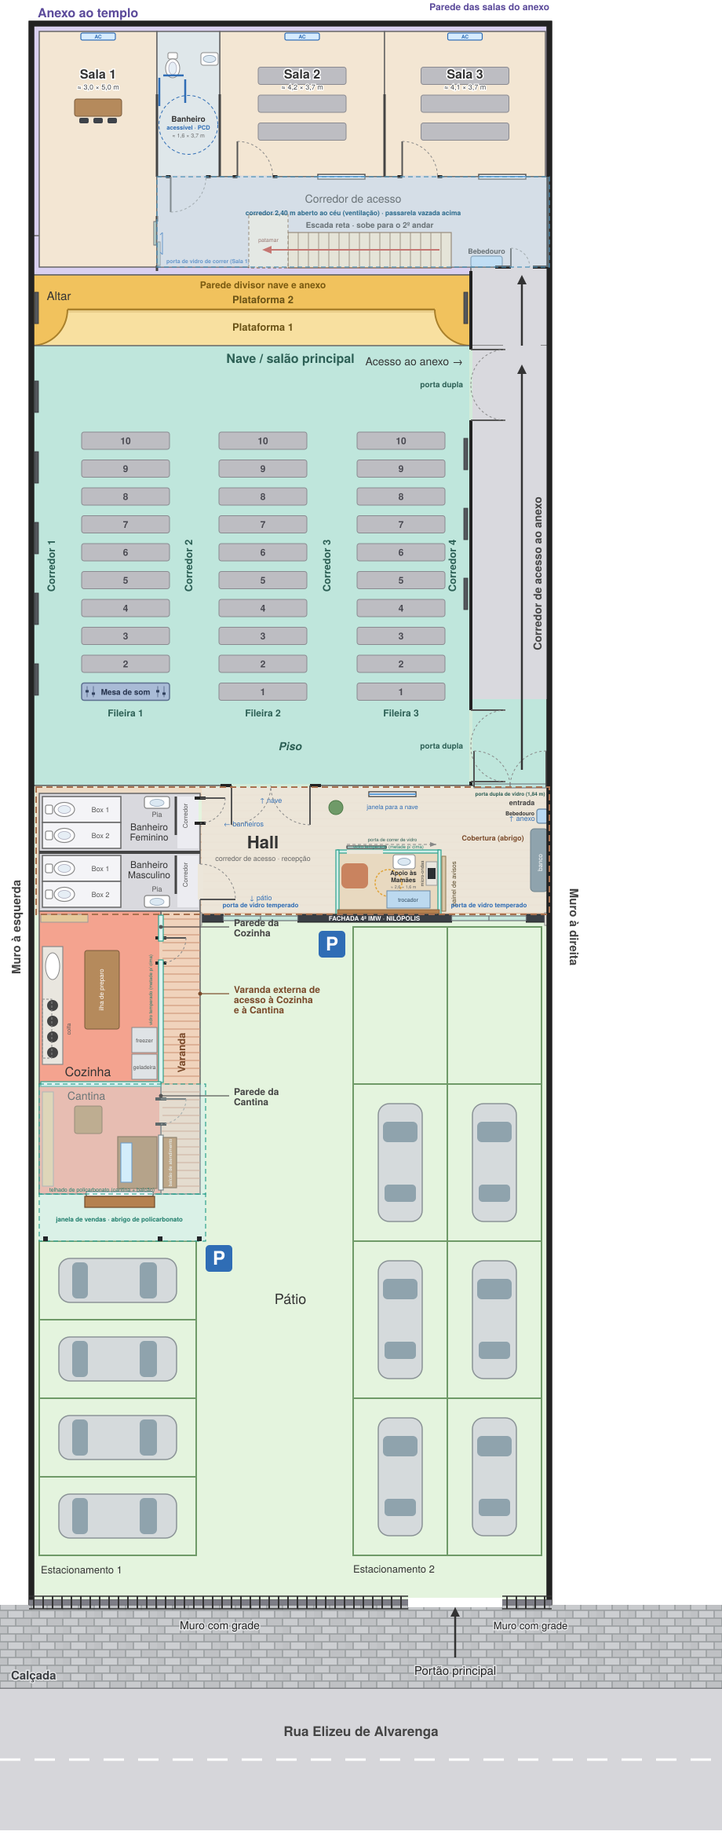
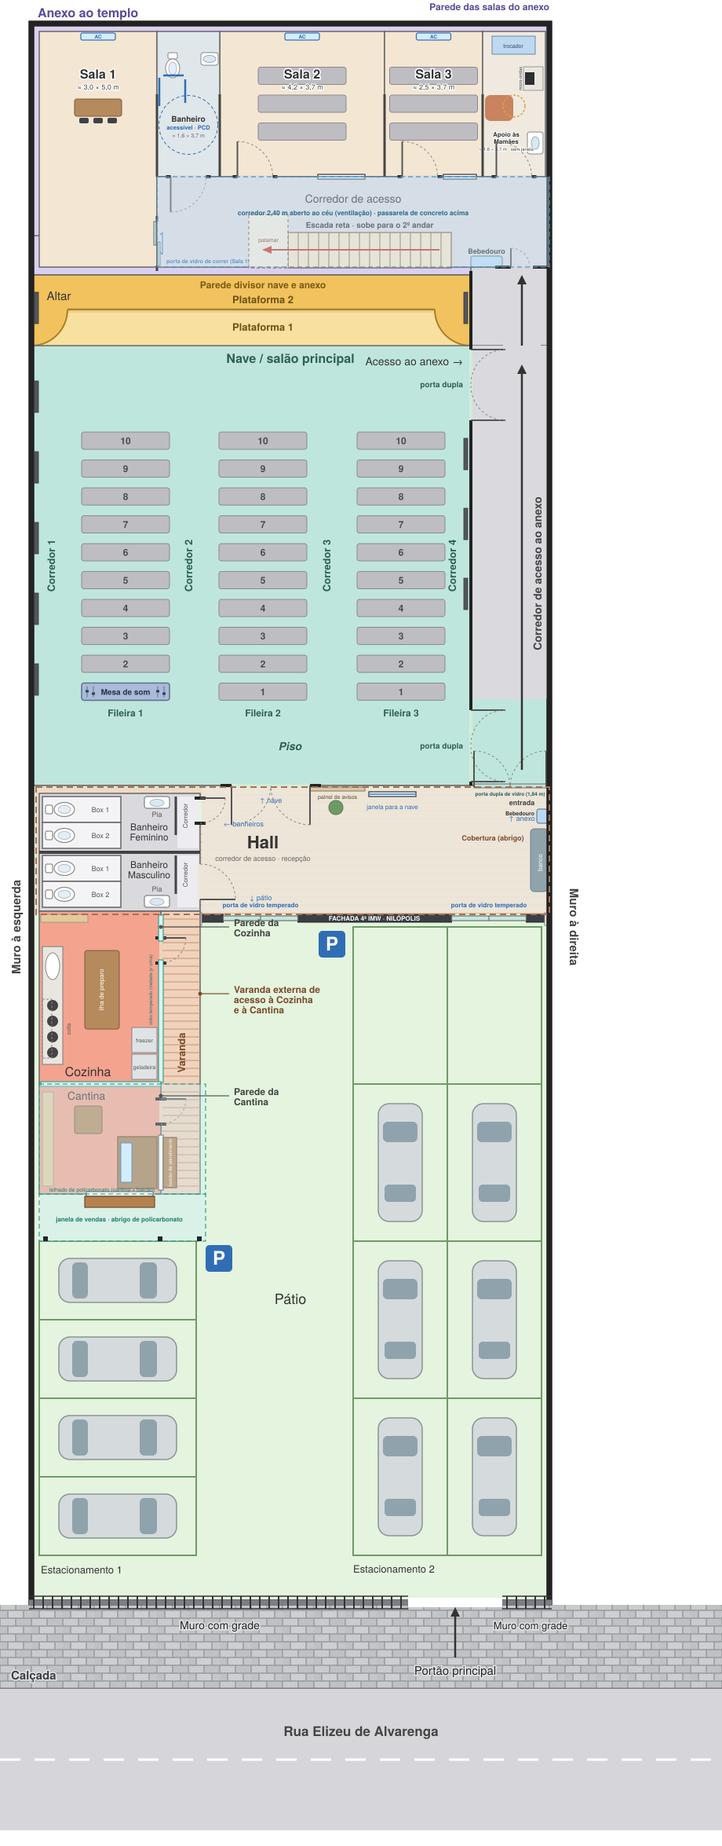
Etapa 101: Sala de Apoio às Mamães no anexo (Sala 3 dividida); Hall livre
Claude-Session: https://claude.ai/code/session_015gh4tS64wXyJ2ghbw66cFX

Changed region(s): [[0.5174, 0.0, 0.7609, 0.1243], [0.4565, 0.4349, 0.6391, 0.497], [0.4565, 0.4038, 0.487, 0.4349]]

diff --git a/projeto3/maquete.html b/projeto3/maquete.html
@@ -107,7 +107,7 @@
     <input id="search" type="search" placeholder="🔍 Buscar (ex.: cantina, escada, nave)" autocomplete="off">
     <div id="tabs"></div>
     <div id="menuPanel"></div>
-    <details class="about"><summary>Sobre o projeto</summary><ul><li>Térreo: nave, hall, banheiros, Sala de Apoio às Mamães, cozinha e cantina (atende pela varanda e pelo estacionamento) e o anexo com salas e escada reta.</li><li>2º andar: Sala Multiuso, WC, Biblioteca e Sala de Reuniões com Copa, com passarela sobre o corredor aberto.</li><li>Pátio com dois estacionamentos e fachada com portas de vidro temperado.</li></ul></details>
+    <details class="about"><summary>Sobre o projeto</summary><ul><li>Térreo: nave, hall, banheiros, cozinha e cantina (atende pela varanda e pelo estacionamento) e o anexo com salas, Sala de Apoio às Mamães e escada reta.</li><li>2º andar: Sala Multiuso, WC, Biblioteca e Sala de Reuniões com Copa, com passarela sobre o corredor aberto.</li><li>Pátio com dois estacionamentos e fachada com portas de vidro temperado.</li></ul></details>
     <div class="credit">A Maquete 3 é a mais aceita pela Junta Diaconal<br>Criação e elaboração: Alexandre Prado</div>
   </aside>
   <div class="bar" id="views"></div>
@@ -315,13 +315,14 @@
     seg3(horiz, fixed, c, w + 0.1, 0.06, th, 0x5b3d25, h + 0.04);
     [-1, 1].forEach(function(o){ seg3(horiz, fixed, c, 0.06, h + 0.02, th, 0x5b3d25, h / 2 + 0.01, o * (w / 2 + 0.03)); });
   }
-  function winFrame(horiz, fixed, c){
+  function winFrame(horiz, fixed, c, w){
+    w = w || 1.2;
     var y0 = 1.1, y1 = 2.3, yc = (y0 + y1) / 2;
-    seg3(horiz, fixed, c, 1.2, 0.05, 0.2, C.white, y0 + 0.025);
-    seg3(horiz, fixed, c, 1.2, 0.05, 0.2, C.white, y1 - 0.025);
-    [-0.575, 0.575].forEach(function(o){ seg3(horiz, fixed, c, 0.05, 1.2, 0.2, C.white, yc, o); });
+    seg3(horiz, fixed, c, w, 0.05, 0.2, C.white, y0 + 0.025);
+    seg3(horiz, fixed, c, w, 0.05, 0.2, C.white, y1 - 0.025);
+    [-1, 1].forEach(function(q){ seg3(horiz, fixed, c, 0.05, 1.2, 0.2, C.white, yc, q * (w / 2 - 0.025)); });
     seg3(horiz, fixed, c, 0.04, 1.2, 0.1, C.white, yc);
-    seg3(horiz, fixed, c, 1.3, 0.04, 0.3, C.white, y0 - 0.02);
+    seg3(horiz, fixed, c, w + 0.1, 0.04, 0.3, C.white, y0 - 0.02);
   }
   // MAQUETE 3: janela de vidro temperado 1,20 x 1,20 m (peitoril 1,10 m): vidro translúcido, perfil fino de alumínio, montante central (folhas de correr), trinco e peitoril
   var tempWinMat = new THREE.MeshStandardMaterial({ color: 0xb4dccf, transparent: true, opacity: 0.32, roughness: 0.05, metalness: 0.2, side: THREE.DoubleSide });
@@ -391,7 +392,8 @@
     rect(40, 720, 700, 1760, 0, 0.05, 0, { cast: false, material: new THREE.MeshStandardMaterial({ map: tx, roughness: 0.9 }) });   // pátio
   })();
   rect(40, 40, 700, 230, 0, 0.06, C.anexo, { cast: false });                 // bloco do anexo
-  [[50,200],[280,490],[490,695]].forEach(function(r){ rect(r[0], 50, r[1], 155, 0.06, 0.04, 0, { cast: false, material: anxWood((r[1] - r[0]) * S, 105 * S) }); });   // Etapa 87: piso de tábuas de madeira clara   // Etapa 70: Sala 4 eliminada; Salas 2 e 3 ocupam x280..695
+  [[50,200],[280,490],[490,615]].forEach(function(r){ rect(r[0], 50, r[1], 155, 0.06, 0.04, 0, { cast: false, material: anxWood((r[1] - r[0]) * S, 105 * S) }); });
+  rect(615, 50, 695, 155, 0.06, 0.04, 0, { cast: false, material: anxTile(80 * S, 105 * S, [226, 222, 214], '#b9b4aa', 0.3) });   // Etapa 101: piso de cerâmica clara da Sala de Apoio às Mamães   // Etapa 87: piso de tábuas de madeira clara   // Etapa 70: Sala 4 eliminada; Salas 2 e 3 ocupam x280..695
   rect(200, 50, 280, 155, 0.06, 0.04, 0, { cast: false, material: anxTile(80 * S, 105 * S, [214, 224, 229], '#a3aeb4', 0.3) });            // PROJETO 2: banheiro do anexo (entre Sala 1 e Sala 2)   // PROJETO 2: 3 salas
   rect(200, 155, 700, 220, 0.06, 0.04, 0, { cast: false, material: anxTile(500 * S, 65 * S, [206, 206, 210], '#9a9aa0', 0.3) });             // corredor do anexo (MAQUETE 3: começa em x200)
   rect(50, 155, 200, 220, 0.06, 0.04, 0, { cast: false, material: anxWood(150 * S, 65 * S) });          // MAQUETE 3: Sala 1 esticada até a parede divisória nave x anexo
@@ -645,14 +647,14 @@
 
   // ---------- Anexo (paredes das salas com altura padrão de 3 m) ----------
   // PROJETO 2: anexo reorganizado (3 salas + banheiro acessível + Sala de Apoio) com corredor y155..220 e bebedouro
-  [200, 280, 490].forEach(function(px){ vwall(px, 50, 155, BH); });   // Etapa 70: sem as paredes x430 e x580 (Sala 4 eliminada)
+  [200, 280, 490, 615].forEach(function(px){ vwall(px, 50, 155, BH); });   // Etapa 101: parede x615 divide a Sala 3 (x490..615) da Sala de Apoio (x615..695)   // Etapa 70: sem as paredes x430 e x580 (Sala 4 eliminada)
   vwall(695, 50, 155, BH);
-  hwall(155, 200, 695, BH, [door(240), door(325), win(435), door(535), win(640)]);   // MAQUETE 3: a Sala 1 não tem mais parede/porta/janela para o corredor (foi esticada até y220)
+  hwall(155, 200, 695, BH, [door(240), door(325), win(435), door(535), { a: 565, b: 607, sill: 1.1, lh: 2.3 }, door(655)]);   // MAQUETE 3: a Sala 1 não tem mais parede/porta/janela para o corredor (foi esticada até y220)
   vwall(200, 155, 225, BH, [{ a: 162, b: 218, lh: 2.1 }]);               // MAQUETE 3: nova parede leste da Sala 1 (voltada para o corredor de acesso), com vão da porta de vidro de correr
   doorLeaf(true, 225, 665, 0.86, 2.08, 0.2);                                // porta de madeira de acesso ao anexo
-  [325, 535].forEach(function(c){ doorLeaf(true, 155, c); });   // Etapa 70: portas das Salas 2 e 3
+  [325, 535, 655].forEach(function(c){ doorLeaf(true, 155, c); });   // Etapa 101: 655 = porta da Sala de Apoio   // Etapa 70: portas das Salas 2 e 3
   doorLeaf(true, 155, 240, 0.9, 2.08, 0.16);                              // porta do banheiro do anexo      // portas de madeira: Salas 1-3 e Sala de Apoio
-  [435, 640].forEach(function(c){ winFrame(true, 155, c); });           // janelas das 3 salas
+  winFrame(true, 155, 435); winFrame(true, 155, 586, 0.84);   // Etapa 101: Sala 3 com janela de 0,84 m (a Sala de Apoio não tem janela)           // janelas das 3 salas
   // MAQUETE 3 (Etapa 56): porta de vidro temperado DE CORRER (2 folhas de 0,60 m, uma fixa e uma móvel, trilho superior e inferior, puxador) da Sala 1 voltada para o corredor de acesso
   (function(){
     var temp = new THREE.MeshStandardMaterial({ color: 0xb4dccf, transparent: true, opacity: 0.32, roughness: 0.05, metalness: 0.2, side: THREE.DoubleSide });
@@ -808,11 +810,11 @@
     cam(X(700) - 0.11, 2.6, Z(780), -1, 0.15); cam(X(255) + 0.1, 2.6, Z(770), 1, 0.15);
     // anexo: corredor (parede divisória com a nave) e salas
     cam(X(285), 2.6, Z(225) - 0.09, 0.5, -1); cam(X(560), 2.6, Z(225) - 0.09, -0.5, -1);
-    cam(X(125), 2.55, Z(40) + 0.12, 0, 1); cam(X(592), 2.55, Z(40) + 0.12, 0, 1);
+    cam(X(125), 2.55, Z(40) + 0.12, 0, 1); cam(X(552.5), 2.55, Z(40) + 0.12, 0, 1);
   })();
   (function(){
     function acBox(x, y, z){ box(0.95, 0.28, 0.2, 0xf4f4f2, x, y, z); box(0.8, 0.025, 0.02, 0x9aa0a6, x, y - 0.09, z + 0.105, null, { cast: false }); }
-    [125, 385, 592].forEach(function(cx){
+    [125, 385, 552.5].forEach(function(cx){
       acBox(X(cx), 2.45, Z(40) + 0.11 + 0.1);                                                   // split na parede do fundo
       box(1.5, 0.85, 0.04, 0x16191c, X(cx), 1.5, Z(40) + 0.11 + 0.02);                          // tela
       if (cx !== 125) return;                                                                      // Etapa 80: Salas 2 e 3 sem mesa e sem cadeiras (os 3 bancos são a medida da sala)
@@ -1127,51 +1129,16 @@
       box(0.05, 0.42, 1.6, 0, X(698), 0.78, bz, null, { material: wm });                                // encosto
       [-0.72, 0.72].forEach(function(q){ box(0.04, 0.43, 0.04, 0x2a2d31, bx - 0.19, 0.215, bz + q, null, { material: mt }); box(0.04, 0.43, 0.04, 0x2a2d31, bx + 0.19, 0.215, bz + q, null, { material: mt }); box(0.04, 0.36, 0.04, 0x2a2d31, X(698), 0.6, bz + q, null, { material: mt }); });
     })();
-    // painel de avisos: agora na face externa (leste) da Sala de Apoio do Hall
-    (function(){ var px = X(560) + 0.09, pz = Z(844); box(0.04, 1.0, 1.4, 0xd9c7a8, px, 1.5, pz); box(0.05, 0.05, 1.48, 0x7a5a3a, px, 2.02, pz); box(0.05, 0.05, 1.48, 0x7a5a3a, px, 0.98, pz);
-      [[-0.5, 1.7, 0xf4f1e8], [-0.15, 1.58, 0xf2d56b], [0.2, 1.72, 0xbfd8ea], [0.5, 1.55, 0xf2b6a8], [-0.4, 1.35, 0xf4f1e8], [0.05, 1.3, 0xc7e3c0], [0.45, 1.28, 0xf4f1e8]].forEach(function(q){ box(0.02, 0.22, 0.17, q[2], px + 0.03, q[1] - 0.05, pz + q[0], null, { cast: false }); }); })();   // Etapa 85: avisos presos no painel
+    // painel de avisos: Etapa 101 — na parede da nave, lado do Hall (a sala de apoio saiu do Hall)
+    (function(){ var px = X(430), pz = Z(720) + 0.14; box(1.4, 1.0, 0.04, 0xd9c7a8, px, 1.5, pz); box(1.48, 0.05, 0.05, 0x7a5a3a, px, 2.02, pz); box(1.48, 0.05, 0.05, 0x7a5a3a, px, 0.98, pz);
+      [[-0.5, 1.7, 0xf4f1e8], [-0.15, 1.58, 0xf2d56b], [0.2, 1.72, 0xbfd8ea], [0.5, 1.55, 0xf2b6a8], [-0.4, 1.35, 0xf4f1e8], [0.05, 1.3, 0xc7e3c0], [0.45, 1.28, 0xf4f1e8]].forEach(function(q){ box(0.17, 0.22, 0.02, q[2], px + q[0], q[1] - 0.05, pz + 0.03, null, { cast: false }); }); })();   // Etapa 85: avisos presos no painel
     var pot = new THREE.Mesh(new THREE.CylinderGeometry(0.2, 0.15, 0.4, 18), mat(0xdcd8cf, { roughness: 0.6 })); pot.position.set(X(428), 0.2, Z(748)); root.add(pot);
     var pl = new THREE.Mesh(new THREE.SphereGeometry(0.34, 16, 12), mat(0x5d8f56, { roughness: 0.9 })); pl.position.set(X(428), 0.75, Z(748)); root.add(pl);
     [[0.2, 0.9, 0.1], [-0.18, 0.95, -0.05], [0.0, 1.1, 0.0], [-0.1, 0.8, 0.2], [0.12, 0.8, -0.18]].forEach(function(q){ var lf = new THREE.Mesh(new THREE.SphereGeometry(0.2, 8, 6), mat(0x4f8a49, { roughness: 0.9 })); lf.position.set(X(428) + q[0], q[1], Z(748) + q[2]); root.add(lf); });   // Etapa 85: folhagem mais cheia
     var rg = new THREE.Mesh(new THREE.CylinderGeometry(0.9, 0.9, 0.02, 40), mat(0xcfc3ae, { roughness: 1 })); rg.position.set(X(335), 0.12, Z(810)); root.add(rg);
   })();
 
-  // ---- MAQUETE 3: Sala de Apoio às Mamães no Hall, em horizontal (x430..560, y804..884 ≈ 2,6 × 1,6 m): poltrona, trocador, pia e micro-ondas ----
-  (function(){
-    rect(430, 804, 560, 884, 0.1, 0.02, 0xcfcac2, { cast: false });   // piso de microcimento claro
-    // paredes: azulejo até a metade (1,5 m) e vidro temperado da metade para cima, com perfis pretos (norte, oeste e leste; a sul é a fachada)
-    hwall(804, 430, 560, BH, [door(465)], 'GLASSUP');
-    vwall(430, 804, 884, BH, [], 'GLASSUP');
-    vwall(560, 804, 884, BH, [], 'GLASSUP');
-    // porta de correr de vidro temperado (folha de 1,0 m com perfis pretos, trilho superior e puxador), do lado do Hall; corre para o leste sobre a parede de vidro
-    (function(){
-      var cz = Z(804) - 0.13, cx = X(465), lw = 1.0, met = 0x1f2226, tx0 = X(450), tx1 = X(556);
-      box(lw, 2.06, 0.012, 0, cx, 1.06, cz, null, { material: tempWinMat, cast: false });
-      box(lw + 0.04, 0.06, 0.05, met, cx, 0.05, cz); box(lw + 0.04, 0.06, 0.05, met, cx, 2.09, cz);
-      [-1, 1].forEach(function(q){ box(0.04, 2.1, 0.05, met, cx + q * (lw / 2 + 0.01), 1.07, cz); });
-      box(0.025, 0.9, 0.05, 0xc9ced3, cx + 0.38, 1.05, cz - 0.04);                                  // puxador vertical
-      box(tx1 - tx0, 0.07, 0.07, met, (tx0 + tx1) / 2, 2.2, cz, null, { cast: false });              // trilho superior
-      box(tx1 - tx0, 0.015, 0.04, 0x6b7075, (tx0 + tx1) / 2, 0.01, cz, null, { cast: false });        // guia no piso
-      box(0.3, 0.05, 0.05, met, cx, 2.17, cz, null, { cast: false });                                 // roldana
-    })();
-    // design: faixa de vidro jateado (privacidade na altura dos olhos, 1,55–2,05 m) nas 3 paredes de vidro
-    var fr = new THREE.MeshStandardMaterial({ color: 0xffffff, transparent: true, opacity: 0.62, roughness: 0.9 });
-    gbox(true, 804, (488 + 560) / 2, (560 - 488) * S, 0.5, 0.036, 1.8, 0, fr);
-    gbox(false, 430, 844, 80 * S, 0.5, 0.036, 1.8, 0, fr);
-    gbox(false, 560, 844, 80 * S, 0.5, 0.036, 1.8, 0, fr);
-    // design: ripado de madeira na parede da fachada (atrás do trocador) e pendente circular de LED
-    for (var rk = 0; rk < 26; rk++) box(0.05, 1.75, 0.04, 0xb5814f, X(433) + rk * 0.098 + 0.05, 1.83, Z(884) - 0.07, null, { cast: false });
-    box(2.55, 0.05, 0.05, 0x23262a, X(495), 0.93, Z(884) - 0.07, null, { cast: false }); box(2.55, 0.05, 0.05, 0x23262a, X(495), 2.72, Z(884) - 0.07, null, { cast: false });
-    var ring = new THREE.Mesh(new THREE.TorusGeometry(0.34, 0.022, 10, 40), new THREE.MeshStandardMaterial({ color: 0xfff1c9, emissive: 0xffe2a8, emissiveIntensity: 0.9 })); ring.rotation.x = Math.PI / 2; ring.position.set(X(495), 2.5, Z(844)); root.add(ring);
-    [0, 2.1, 4.2].forEach(function(a){ box(0.01, 0.5, 0.01, 0x23262a, X(495) + 0.34 * Math.cos(a), 2.75, Z(844) + 0.34 * Math.sin(a), null, { cast: false }); });
-    box(0.7, 0.45, 0.65, 0xc9835f, X(450) + 0.1, 0.3, Z(835)); box(0.14, 0.55, 0.65, 0xc9835f, X(450) - 0.22, 0.6, Z(835)); box(0.12, 0.18, 0.65, 0xb06f4e, X(450) + 0.45, 0.5, Z(835));   // poltrona de amamentação (terracota)
-    [[0.35, 0.28], [0.35, -0.28], [-0.15, 0.28], [-0.15, -0.28]].forEach(function(q){ box(0.03, 0.08, 0.03, 0x23262a, X(450) + q[0] - 0.05, 0.04, Z(835) + q[1]); });   // pés pretos
-    box(1.1, 0.9, 0.45, 0xf4f2ec, X(520), 0.45, Z(884) - 0.13 - 0.25); box(1.1, 0.06, 0.45, 0xbcd9ef, X(520), 0.93, Z(884) - 0.13 - 0.25); box(1.12, 0.04, 0.47, 0xb5814f, X(520), 0.89, Z(884) - 0.13 - 0.25);   // trocador (parede sul) com friso de madeira
-    box(0.56, 0.85, 0.36, 0xf4f2ec, X(515), 0.425, Z(804) + 0.11 + 0.2); var ps3 = new THREE.Mesh(new THREE.CylinderGeometry(0.15, 0.11, 0.06, 18), mat(0xffffff, { roughness: 0.25 })); ps3.position.set(X(515), 0.88, Z(804) + 0.11 + 0.2); root.add(ps3); box(0.03, 0.22, 0.03, 0x15171a, X(515), 1.02, Z(804) + 0.11 + 0.06); box(0.03, 0.03, 0.12, 0x15171a, X(515), 1.12, Z(804) + 0.11 + 0.1);   // pia com torneira preta
-    var mx = X(560) - 0.11 - 0.25;
-    box(0.5, 0.9, 0.6, 0xe9e6df, mx, 0.45, Z(832)); box(0.52, 0.04, 0.62, 0xb9bcbe, mx, 0.92, Z(832));          // balcão
-    box(0.36, 0.26, 0.45, 0x2b2e32, mx, 1.07, Z(832)); box(0.02, 0.18, 0.3, 0x15171a, mx - 0.19, 1.07, Z(832), null, { cast: false });   // micro-ondas
-  })();
+  // Etapa 101: a Sala de Apoio às Mamães saiu do Hall (foi para o anexo, ao lado da Sala 3); o Hall fica livre
   // ---- bebedouro: parede externa dos banheiros (abrigo coberto) ----
   box(0.35, 1.0, 0.3, 0xcfd8dc, X(698) - 0.175, 0.55, Z(759)); box(0.3, 0.05, 0.26, 0x5b9bd5, X(698) - 0.175, 1.07, Z(759)); box(0.12, 0.12, 0.05, 0x888, X(698) - 0.1, 1.15, Z(759));   // MAQUETE 3: bebedouro na outra extremidade do Hall (muro leste)
 
@@ -1748,7 +1715,7 @@
     lampRound(110, 805); lampRound(200, 805); [310, 400, 490, 580, 665].forEach(function(px){ lampRound(px, 768); lampRound(px, 845); });
     // salas do anexo e cozinha: laje emboçada branca lisa + luzes
     var lajeMat = new THREE.MeshStandardMaterial({ color: 0xffffff, roughness: 1, emissive: 0x8c8c88 });
-    [[50, 200], [200, 280], [280, 490], [490, 695]].forEach(function(r){
+    [[50, 200], [200, 280], [280, 490], [490, 615], [615, 695]].forEach(function(r){
       var cx = (r[0] + r[1]) / 2;
       box((r[1] - r[0]) * S, 0.08, 105 * S, 0, X(cx), BH - 0.04, Z(102.5 - DYP), forroGroup, { material: lajeMat, cast: false });
       lampRound(cx, 100 - DYP);
@@ -1784,13 +1751,13 @@
     labelGroup.add(sp);
   }
   label('Anexo ao templo', 370, 100, 6.4, 4.0);
-  label('Sala 1', 125, 50, 4.0, 1.7); label('Banheiro PCD', 240, 50, 3.4, 1.9); label('Sala 2', 385, 50, 4.0, 1.7); label('Sala 3', 592, 50, 4.0, 1.7); label('Escada ao 2º andar', 470, 195, 4.0, 2.4); label('Bebedouro (anexo)', 620, 190, 4.0, 1.9);
+  label('Sala 1', 125, 50, 4.0, 1.7); label('Banheiro PCD', 240, 50, 3.4, 1.9); label('Sala 2', 385, 50, 4.0, 1.7); label('Sala 3', 552.5, 50, 3.4, 1.7); label('Sala de Apoio às Mamães', 655, 50, 3.0, 1.9); label('Escada ao 2º andar', 470, 195, 4.0, 2.4); label('Bebedouro (anexo)', 620, 190, 4.0, 1.9);
   label('Altar', 160, 250, 2.6, 1.5); label('Plataforma 2', 335, 252, 2.3, 2.6); label('Plataforma 1', 335, 297, 1.6, 2.6);
   label('Bateria', 560, 255, 3.1, 1.5); label('Teclado', 110, 258, 3.0, 1.5); label('Guitarra', 262, 255, 3.0, 1.5); label('Baixo', 292, 255, 3.4, 1.3); label('Microfones', 375, 262, 3.0, 2.0);
   label('Piso da nave', 370, 560, 1.4, 2.6);
   label('Mesa de som', 160, 687, 1.7, 2.4);
   label('Acesso ao anexo', 665, 270, 6.2, 3.2); label('Corredor de acesso ao anexo', 665, 520, 3.4, 3.4);
-  label('Hall', 335, 805, 3.0, 1.8); label('Apoio às Mamães', 495, 835, 2.2, 0.9); label('Fachada 4ª IMW', 500, 925, 3.6, 3.0); label('Banheiro Feminino', 120, 767, 3.6, 3.0); label('Banheiro Masculino', 120, 842, 3.6, 3.0);
+  label('Hall', 335, 805, 3.0, 1.8); label('Fachada 4ª IMW', 500, 925, 3.6, 3.0); label('Banheiro Feminino', 120, 767, 3.6, 3.0); label('Banheiro Masculino', 120, 842, 3.6, 3.0);
   label('Varanda', 230, 1060, 3.4, 1.6);
   label('Cozinha', 127, 1000, 3.1, 1.9); label('Cantina', 127, 1170, 3.4, 1.9);
   label('Cobertura (abrigo)', 332, 790, 3.7, 3.0);
@@ -1841,7 +1808,6 @@
     { id: 'corrnave', name: 'Corredor da nave', g: 'Templo', pos: [-2.48, 1.65, -4.0], tgt: [-2.48, 1.4, -12.0], roof: true, labels: false, fp: true },
     { id: 'bfem', name: 'Banheiro Feminino', g: 'Banheiros e hall', pos: [-2.7, 1.65, -2.16], tgt: [-5.8, 1.2, -2.5], roof: true, labels: false, fp: true },
     { id: 'bmasc', name: 'Banheiro Masculino', g: 'Banheiros e hall', pos: [-2.5, 1.65, -0.64], tgt: [-5.6, 1.2, -1.3], roof: true, labels: false, fp: true },
-    { id: 'apoiohall', name: 'Sala de Apoio às Mamães (Hall)', g: 'Banheiros e hall', pos: [1.5, 1.65, -1.55], tgt: [3.8, 1.1, -1.4], roof: true, labels: false, fp: true },
     { id: 'hallfp', name: 'Hall', g: 'Banheiros e hall', pos: [5.2, 1.65, -1.2], tgt: [-1.0, 1.4, -2.0], roof: true, labels: false, fp: true },
     { id: 'varanda', name: 'Varanda', g: 'Pátio (ambientes)', pos: [-2.8, 1.65, 0.0], tgt: [-2.8, 1.5, 7.0], roof: true, labels: false, fp: true },
     { id: 'a2geral', name: '2º andar · Biblioteca e Reuniões (de cima)', g: '2º andar', pos: [1.0, 17, -7.0], tgt: [0.6, 3.2, -16.9], roof: false, labels: true },
@@ -1865,7 +1831,8 @@
     { id: 'sala2a', name: 'Sala 2 (anexo)', g: 'Anexo', pos: [0.7, 1.65, -16.04], tgt: [-1.5, 1.3, -17.5], roof: true, labels: false, fp: true },
     { id: 'escadafp', name: 'Escada reta de acesso ao 2º andar', g: 'Anexo', pos: [5.7, 1.65, -15.3], tgt: [1.0, 2.2, -14.1], roof: true, labels: false, fp: true },
     { id: 'escadaalto', name: 'Escada (de cima)', g: 'Anexo', pos: [5.8, 4.6, -15.4], tgt: [1.0, 1.2, -14.0], roof: false, labels: false },
-    { id: 'sala3a', name: 'Sala 3 (anexo)', g: 'Anexo', pos: [5.7, 1.65, -16.04], tgt: [3.5, 1.3, -17.5], roof: true, labels: false, fp: true },
+    { id: 'sala3a', name: 'Sala 3 (anexo)', g: 'Anexo', pos: [4.4, 1.65, -16.04], tgt: [2.8, 1.3, -17.7], roof: true, labels: false, fp: true },
+    { id: 'apoioanexo', name: 'Sala de Apoio às Mamães (anexo)', g: 'Anexo', pos: [5.7, 1.65, -16.0], tgt: [5.7, 1.1, -19.0], roof: true, labels: false, fp: true },
   ];
   // ---------- MAQUETE 3 (Etapa 77): salas do anexo (térreo e 2º andar) mais fundas: a parede dos fundos recua 1,60 m (Etapa 82: puxada 0,50 m para a frente; antes 2,10 m) para o norte, sem mexer no corredor ----------
   var ANX = (function(){
@@ -1900,7 +1867,7 @@
   (function(){
     var zIn = Z(-10) + 0.11 - 0.85;                                // Etapa 90: bancos centralizados na profundidade da sala (antes encostados no lado do corredor); largura já centralizada
     var estofado = mat(0x7b8189, { roughness: 0.95 });
-    [385, 592.5].forEach(function(px){
+    [385, 552.5].forEach(function(px){
       var cx = X(px);
       for (var i = 0; i < 3; i++){
         var cz = zIn + 0.36 + i * 35.5 * S;                                   // 35,5 px = 0,71 m, o mesmo passo das fileiras da nave
@@ -1911,6 +1878,34 @@
         box(2.06, 0.38, 0.05, 0, cx, 0.08 + 0.45 + 0.30, cz + 9 * S - 0.065, null, { material: estofado });
       }
     });
+  })();
+  // ---------- Etapa 101: SALA DE APOIO ÀS MAMÃES no anexo (x615..695, ao lado da Sala 3): reservada, sem janela, porta para o corredor ----------
+  (function(){
+    var zf = Z(105), xw = X(615) + 0.06, xe = X(695) - 0.06, zback = Z(-80) + 0.11;   // frente (parede do corredor), faces internas oeste/leste e fundo (referência final do anexo)
+    var cx = (xw + xe) / 2;
+    var cream = 0xf4f2ec, graph = 0x23262a;
+    // poltrona de amamentação (terracota, pés pretos) junto à parede oeste, voltada para o leste
+    (function(){ var bx = xw + 0.36, bz = zf - 1.75;
+      box(0.7, 0.45, 0.65, 0xc9835f, bx + 0.1, 0.3, bz); box(0.14, 0.55, 0.65, 0xc9835f, bx - 0.22, 0.6, bz); box(0.12, 0.18, 0.65, 0xb06f4e, bx + 0.45, 0.5, bz);
+      [[0.35, 0.28], [0.35, -0.28], [-0.15, 0.28], [-0.15, -0.28]].forEach(function(q){ box(0.03, 0.08, 0.03, graph, bx + q[0] - 0.05, 0.04, bz + q[1]); });
+    })();
+    // pia com cuba e torneira, na parede leste
+    (function(){ var px = xe - 0.2, pz = zf - 0.85;
+      box(0.4, 0.85, 0.56, cream, px, 0.425, pz); var ps = new THREE.Mesh(new THREE.CylinderGeometry(0.15, 0.11, 0.06, 18), mat(0xffffff, { roughness: 0.25 })); ps.position.set(px, 0.87, pz); root.add(ps);
+      box(0.04, 0.2, 0.04, 0x1f2226, px + 0.12, 1.0, pz);
+    })();
+    // balcão com micro-ondas, na parede leste
+    (function(){ var mx = xe - 0.25, mz = zf - 2.5;
+      box(0.5, 0.9, 0.6, 0xe9e6df, mx, 0.45, mz); box(0.52, 0.04, 0.62, 0xb9bcbe, mx, 0.92, mz);
+      box(0.36, 0.26, 0.45, 0x2b2e32, mx, 1.07, mz); box(0.02, 0.18, 0.3, 0x15171a, mx - 0.19, 1.07, mz, null, { cast: false });
+    })();
+    // trocador (parede dos fundos) com friso de madeira e ripado atrás
+    (function(){ var tz = zback + 0.25;
+      box(1.1, 0.9, 0.45, cream, cx, 0.45, tz); box(1.1, 0.06, 0.45, 0xbcd9ef, cx, 0.93, tz); box(1.12, 0.04, 0.47, 0xb5814f, cx, 0.89, tz);
+      for (var rk = 0; rk < 13; rk++) box(0.05, 1.75, 0.04, 0xb5814f, xw + 0.05 + rk * 0.1, 1.83, zback + 0.03, null, { cast: false });
+    })();
+    // pendente circular de LED
+    var ring = new THREE.Mesh(new THREE.TorusGeometry(0.28, 0.02, 10, 40), new THREE.MeshStandardMaterial({ color: 0xfff1c9, emissive: 0xffe2a8, emissiveIntensity: 0.9 })); ring.rotation.x = Math.PI / 2; ring.position.set(cx, 2.55, zf - 1.8); root.add(ring);
   })();
   var bar = document.getElementById('views');
   var anim = null, current = 'geral';
@@ -2043,7 +2038,6 @@
       ['cantinaf', 'Cozinha e Cantina (varanda)', 'Cozinha de vidro e azulejo, e cantina com balcão de atendimento na varanda e cobertura de policarbonato.', 0, [[2.0,9.6,10.6],[-4.9,0.3,2.8]]],
       ['cantinav', 'Cantina · atendimento dos 2 lados', 'Nova janela de vendas voltada para o Estacionamento 1: a cantina atende pela varanda e por este lado, com abrigo de policarbonato para o público.', 0, [[-1.2,5.6,11.0],[-4.4,0.9,6.4], true]],
       ['hallfp', 'Hall de recepção', 'Espaço aberto e livre que liga o pátio à nave, aos banheiros e ao corredor do anexo.', 0, [[2.2,11,2.5],[2.2,0,-2.0]]],
-      ['apoiohall', 'Sala de Apoio às Mamães', 'Sala envidraçada com porta de correr, poltrona, trocador, pia e micro-ondas, ao lado do hall.', 0, [[2.5,7.4,-5.8],[2.5,0.9,-1.1]]],
       ['pesnave', 'Nave', 'Nave com bancos estofados, placas acústicas, ventiladores e ar-condicionado.', 0],
       ['altarfp', 'Vista do altar', 'Plataformas, painel ripado e a cruz com o coração, à frente de toda a congregação.', 0],
       ['portasnave', 'Portas da nave para o corredor', 'Duas portas duplas de vidro temperado ligam a nave ao corredor de acesso ao anexo: uma rente ao altar e outra rente à parede do hall, nos extremos da nave.', 0, [[-6.1,2.9,-6.0],[4.6,1.0,-6.0], false]],
@@ -2051,6 +2045,7 @@
       ['corabe', 'Corredor do anexo', 'Corredor largo e aberto ao céu, que ventila as salas e tem a escada de acesso ao 2º andar.', 0],
       ['escadat', 'Escada de acesso ao 2º andar', 'Escada reta ao longo da parede da nave, com degraus de madeira e guarda-corpo de vidro, que chega direto à passarela do 2º andar.', 0, [[5.8,4.6,-15.4],[1.0,1.2,-14.0], false]],
       ['anexot', 'Anexo · térreo', 'Vista de cima das salas do térreo: Sala 1, banheiro acessível e as Salas 2 e 3, voltadas para o corredor aberto.', 0, [[0.3,16,-15.0],[0.3,0,-18.0], false, 3.02]],
+      ['apoioanexo', 'Sala de Apoio às Mamães', 'Sala reservada no anexo, ao lado da Sala 3, com porta para o corredor e sem janela: poltrona de amamentação, trocador, pia e micro-ondas.', 0, [[6.4,10,-13.8],[5.7,0,-18.0], false, 3.02]],
       ['sala2a', 'Salas do anexo (térreo)', 'Salas de aula com ar-condicionado, tela e mobiliário; ao lado, o banheiro acessível (PCD).', 0, [[-3.55,2.75,-14.75],[-5.8,0.3,-17.4]]],
       ['a2geral', '2º andar · Biblioteca e Reuniões', 'Biblioteca e Sala de Reuniões com Copa, alinhadas às salas do térreo, com passarela de concreto sobre o corredor.', 0, [[2.7,15,-14.6],[2.7,3.3,-18.0]]],
       ['a2mult', '2º andar · Sala Multiuso', 'Sala Multiuso com tela de projeção, painel ripado e cadeiras, para aulas, reuniões e eventos.', 0, [[-4.9,14,-13.4],[-4.9,3.3,-18.0]]],
